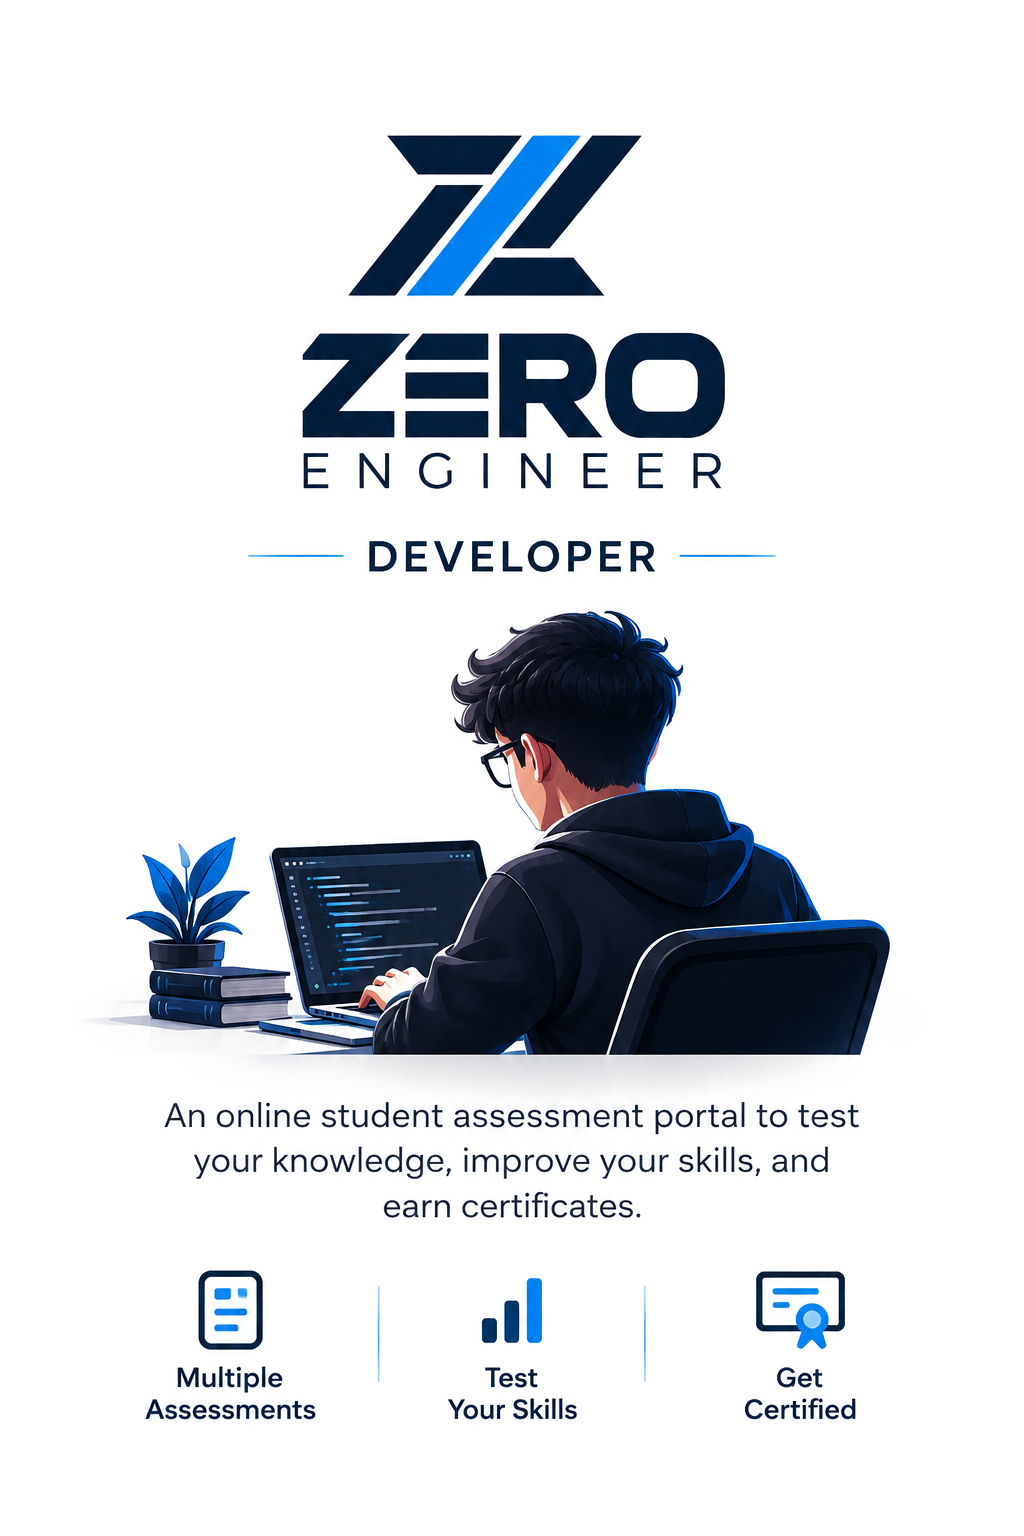
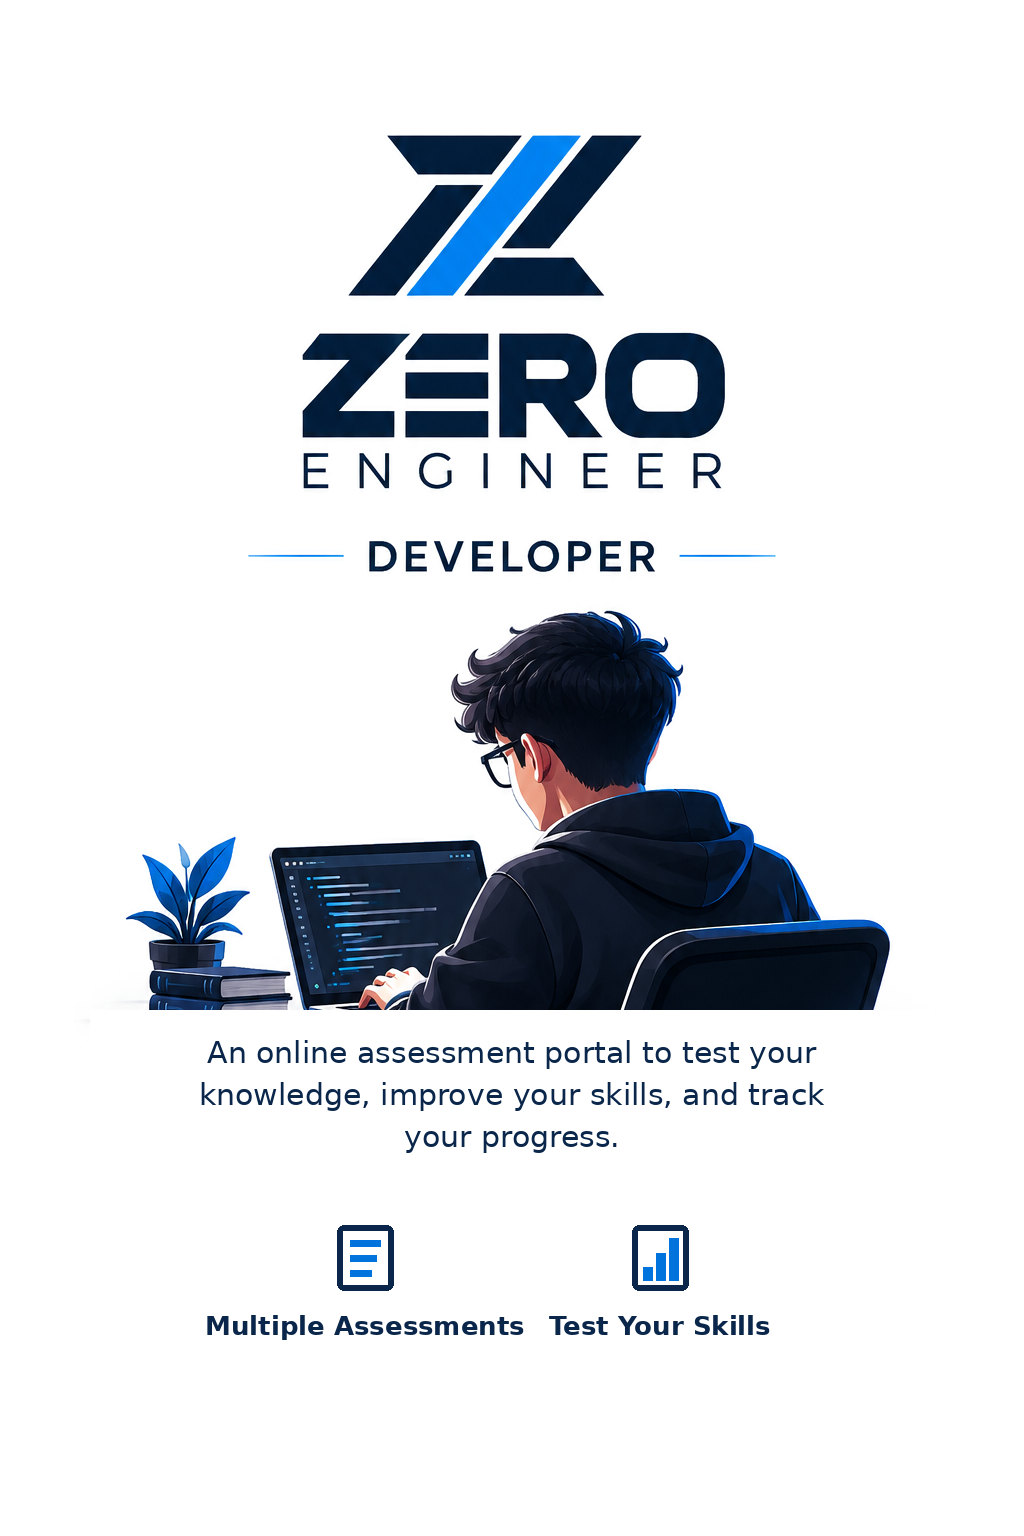
Remove certification messaging from home promo

Changed region(s): [[0.125, 0.6562, 0.875, 0.9375]]

diff --git a/public/css/style.css b/public/css/style.css
@@ -4,7 +4,7 @@
 .institution-logo{display:block;width:auto;max-width:min(520px,calc(100% - 190px));height:82px;object-fit:contain;object-position:left center;flex:1 1 auto;min-width:0}.brand-logo{display:block;width:clamp(150px,22vw,230px);max-width:32vw;height:auto;max-height:72px;object-fit:contain;object-position:center center;flex:0 1 230px;min-width:0}
 .wrap{width:min(1240px,calc(100% - 36px));margin:28px auto 46px}.panel{background:var(--panel);border:1px solid #d9e3ed;border-radius:var(--radius);padding:clamp(20px,2.5vw,32px);box-shadow:0 16px 38px #0b2d4b12;min-width:0}
 .home-layout{display:grid;grid-template-columns:minmax(0,1.03fr) minmax(360px,.9fr);gap:22px;align-items:stretch;margin-bottom:0}.home-layout>#home{grid-column:2;grid-row:1;min-width:0;background:#fff;border-top:4px solid var(--blue);align-self:center}.home-layout>.promo-panel{grid-column:1;grid-row:1}
-.promo-panel{min-width:0;min-height:0;display:flex;flex-direction:column;align-items:center;justify-content:center;gap:10px;padding:24px;background:linear-gradient(145deg,#0a2d52,#075da0 75%,#0879bd);border:0;border-radius:var(--radius);box-shadow:0 18px 40px #0b2d4b24;overflow:hidden;position:relative;color:white}.promo-panel:before{content:"";position:absolute;inset:0;background:radial-gradient(circle at 15% 15%,#ffffff12,transparent 42%),linear-gradient(135deg,transparent 60%,#e6b72e12);pointer-events:none}.promo-image{position:relative;z-index:1;display:block;width:100%;max-width:none;max-height:none;height:auto;flex:0 0 auto;object-fit:contain;object-position:center;background:#fff;border-radius:8px}.promo-caption{position:relative;z-index:1;margin:0;text-align:center;font-weight:750;letter-spacing:.06em;color:#ffda65}.promo-panel:after{content:"STUDENT ASSESSMENT  •  SKILL DEVELOPMENT  •  CERTIFICATION";position:relative;z-index:1;color:#d9eaff;font-size:.72rem;font-weight:800;letter-spacing:.11em;text-align:center;margin-top:8px}
+.promo-panel{min-width:0;min-height:0;display:flex;flex-direction:column;align-items:center;justify-content:center;gap:10px;padding:24px;background:linear-gradient(145deg,#0a2d52,#075da0 75%,#0879bd);border:0;border-radius:var(--radius);box-shadow:0 18px 40px #0b2d4b24;overflow:hidden;position:relative;color:white}.promo-panel:before{content:"";position:absolute;inset:0;background:radial-gradient(circle at 15% 15%,#ffffff12,transparent 42%),linear-gradient(135deg,transparent 60%,#e6b72e12);pointer-events:none}.promo-image{position:relative;z-index:1;display:block;width:100%;max-width:none;max-height:none;height:auto;flex:0 0 auto;object-fit:contain;object-position:center;background:#fff;border-radius:8px}.promo-caption{position:relative;z-index:1;margin:0;text-align:center;font-weight:750;letter-spacing:.06em;color:#ffda65}
 body:has(#home.hidden) .promo-panel{display:none}h1,h2,h3,p{margin-top:0}h1{font-size:clamp(1.9rem,3.5vw,2.75rem);line-height:1.1;letter-spacing:-.035em;margin-bottom:12px;color:var(--navy)}h2{font-size:clamp(1.4rem,2.6vw,1.95rem);line-height:1.2;color:var(--navy)}h3{color:var(--navy)}.eyebrow{font-size:.72rem;letter-spacing:.15em;font-weight:850;color:#087bc4;text-transform:uppercase;margin-bottom:12px}.muted{color:var(--muted)}.small{font-size:.8rem}#home>.muted{max-width:60ch;font-size:.96rem}
 form{display:grid;gap:13px;max-width:100%;margin-top:20px}label{display:grid;gap:6px;font-weight:700;font-size:.9rem;color:#1c3550}input,select{width:100%;padding:12px 13px;border-radius:10px;border:1px solid #c9d7e5;background:#f8fafc;color:#172e47;font:inherit;min-width:0}input::placeholder{color:#8091a4}input:focus,select:focus{outline:3px solid #1689d52e;border-color:var(--blue)}button{font:inherit;font-weight:750;border:0;border-radius:10px;padding:12px 17px;cursor:pointer;transition:transform .15s,box-shadow .15s,background .15s}button:hover:not(:disabled){transform:translateY(-1px)}button:disabled{opacity:.45;cursor:not-allowed}.primary{background:linear-gradient(110deg,#0868b5,#1596df);color:#fff;box-shadow:0 5px 12px #087bc426}.primary:hover:not(:disabled){box-shadow:0 8px 18px #087bc43b}.secondary{background:#eaf1f8;color:#173a5d;border:1px solid #cbd9e7}.danger{background:#b72f42;color:#fff;width:100%;margin-top:12px}.text-button{background:none;color:#0878bf;padding:10px 0;margin-top:7px}.error{color:var(--red);min-height:0;margin:0}.hidden{display:none!important}
 .info-grid,.stats-grid,.result-grid{display:grid;grid-template-columns:repeat(3,minmax(0,1fr));gap:12px;margin:20px 0}.info-card,.stat,.result-card{background:#f4f8fc;border:1px solid #dce6f0;padding:15px;border-radius:12px;min-width:0}.info-card strong,.result-card strong{display:block;font-size:1.25rem;overflow-wrap:anywhere;color:var(--navy)}.rules{color:#52687f;padding-left:22px}.rules li{margin:8px 0}.check{display:flex;align-items:flex-start;gap:10px;margin:22px 0}.check input{width:auto;margin-top:5px}.actions{display:flex;gap:10px;justify-content:space-between;margin-top:24px}.exam-top,.admin-head{display:flex;align-items:center;justify-content:space-between;gap:20px}.timer{font-size:1.6rem;font-weight:850;font-variant-numeric:tabular-nums;background:#eef5fb;border:1px solid #cdddeb;color:var(--navy);padding:8px 14px;border-radius:10px}.timer.warning{color:var(--red)}.progress-row{display:flex;justify-content:space-between;color:#657a8f;font-size:.9rem;margin-top:12px}.progress{height:7px;background:#e0e9f2;border-radius:99px;overflow:hidden;margin:8px 0 22px}.progress span{display:block;height:100%;background:linear-gradient(90deg,var(--blue),var(--gold));width:0}.exam-layout{display:grid;grid-template-columns:minmax(0,1fr) 230px;gap:28px}.question-area{padding:20px 0}.question-area h3{font-size:1.25rem;line-height:1.5}.options{display:grid;gap:11px;margin:22px 0}.option{display:flex;gap:12px;align-items:flex-start;padding:14px;border:1px solid #d7e2ec;border-radius:12px;cursor:pointer;background:#f7fafd;color:#193650}.option.selected{border-color:var(--blue);background:#e8f4ff;box-shadow:inset 3px 0 var(--blue)}.option input{width:auto;margin-top:5px}.question-nav{display:grid;grid-template-columns:repeat(5,1fr);gap:7px}.question-nav button{padding:8px 0;background:#e5edf5;color:#1c3c5d}.question-nav button.answered{background:#d7f3e8;color:#116547}.question-nav button.current{outline:2px solid var(--blue);outline-offset:1px}.exam-layout aside{border-left:1px solid #dce5ef;padding-left:20px}.result-card span{display:block;color:#718297;font-size:.8rem}.pass{color:var(--green)}.fail{color:var(--red)}.admin-tabs{display:flex;gap:8px;flex-wrap:wrap;margin:24px 0}.admin-table{width:100%;border-collapse:collapse;font-size:.88rem;background:white}.admin-table th,.admin-table td{text-align:left;padding:11px;border-bottom:1px solid #e0e8f0;overflow-wrap:anywhere}.admin-table th{background:#edf4fa;color:#163b5d}.table-wrap{overflow-x:auto}.admin-form{display:grid;grid-template-columns:repeat(2,minmax(0,1fr));gap:12px;margin:20px 0}.admin-form .wide{grid-column:1/-1}.admin-form button{align-self:end}.stat strong{font-size:1.5rem;display:block;color:var(--navy)}.stat span{color:#6d8093;font-size:.82rem}footer{text-align:center;color:#71859a;font-size:.8rem;padding:20px;background:#e5edf5;border-top:1px solid #d6e0eb}

diff --git a/server/public/css/style.css b/server/public/css/style.css
@@ -4,7 +4,7 @@
 .institution-logo{display:block;width:auto;max-width:min(520px,calc(100% - 190px));height:82px;object-fit:contain;object-position:left center;flex:1 1 auto;min-width:0}.brand-logo{display:block;width:clamp(150px,22vw,230px);max-width:32vw;height:auto;max-height:72px;object-fit:contain;object-position:center center;flex:0 1 230px;min-width:0}
 .wrap{width:min(1240px,calc(100% - 36px));margin:28px auto 46px}.panel{background:var(--panel);border:1px solid #d9e3ed;border-radius:var(--radius);padding:clamp(20px,2.5vw,32px);box-shadow:0 16px 38px #0b2d4b12;min-width:0}
 .home-layout{display:grid;grid-template-columns:minmax(0,1.03fr) minmax(360px,.9fr);gap:22px;align-items:stretch;margin-bottom:0}.home-layout>#home{grid-column:2;grid-row:1;min-width:0;background:#fff;border-top:4px solid var(--blue);align-self:center}.home-layout>.promo-panel{grid-column:1;grid-row:1}
-.promo-panel{min-width:0;min-height:0;display:flex;flex-direction:column;align-items:center;justify-content:center;gap:10px;padding:24px;background:linear-gradient(145deg,#0a2d52,#075da0 75%,#0879bd);border:0;border-radius:var(--radius);box-shadow:0 18px 40px #0b2d4b24;overflow:hidden;position:relative;color:white}.promo-panel:before{content:"";position:absolute;inset:0;background:radial-gradient(circle at 15% 15%,#ffffff12,transparent 42%),linear-gradient(135deg,transparent 60%,#e6b72e12);pointer-events:none}.promo-image{position:relative;z-index:1;display:block;width:100%;max-width:none;max-height:none;height:auto;flex:0 0 auto;object-fit:contain;object-position:center;background:#fff;border-radius:8px}.promo-caption{position:relative;z-index:1;margin:0;text-align:center;font-weight:750;letter-spacing:.06em;color:#ffda65}.promo-panel:after{content:"STUDENT ASSESSMENT  •  SKILL DEVELOPMENT  •  CERTIFICATION";position:relative;z-index:1;color:#d9eaff;font-size:.72rem;font-weight:800;letter-spacing:.11em;text-align:center;margin-top:8px}
+.promo-panel{min-width:0;min-height:0;display:flex;flex-direction:column;align-items:center;justify-content:center;gap:10px;padding:24px;background:linear-gradient(145deg,#0a2d52,#075da0 75%,#0879bd);border:0;border-radius:var(--radius);box-shadow:0 18px 40px #0b2d4b24;overflow:hidden;position:relative;color:white}.promo-panel:before{content:"";position:absolute;inset:0;background:radial-gradient(circle at 15% 15%,#ffffff12,transparent 42%),linear-gradient(135deg,transparent 60%,#e6b72e12);pointer-events:none}.promo-image{position:relative;z-index:1;display:block;width:100%;max-width:none;max-height:none;height:auto;flex:0 0 auto;object-fit:contain;object-position:center;background:#fff;border-radius:8px}.promo-caption{position:relative;z-index:1;margin:0;text-align:center;font-weight:750;letter-spacing:.06em;color:#ffda65}
 body:has(#home.hidden) .promo-panel{display:none}h1,h2,h3,p{margin-top:0}h1{font-size:clamp(1.9rem,3.5vw,2.75rem);line-height:1.1;letter-spacing:-.035em;margin-bottom:12px;color:var(--navy)}h2{font-size:clamp(1.4rem,2.6vw,1.95rem);line-height:1.2;color:var(--navy)}h3{color:var(--navy)}.eyebrow{font-size:.72rem;letter-spacing:.15em;font-weight:850;color:#087bc4;text-transform:uppercase;margin-bottom:12px}.muted{color:var(--muted)}.small{font-size:.8rem}#home>.muted{max-width:60ch;font-size:.96rem}
 form{display:grid;gap:13px;max-width:100%;margin-top:20px}label{display:grid;gap:6px;font-weight:700;font-size:.9rem;color:#1c3550}input,select{width:100%;padding:12px 13px;border-radius:10px;border:1px solid #c9d7e5;background:#f8fafc;color:#172e47;font:inherit;min-width:0}input::placeholder{color:#8091a4}input:focus,select:focus{outline:3px solid #1689d52e;border-color:var(--blue)}button{font:inherit;font-weight:750;border:0;border-radius:10px;padding:12px 17px;cursor:pointer;transition:transform .15s,box-shadow .15s,background .15s}button:hover:not(:disabled){transform:translateY(-1px)}button:disabled{opacity:.45;cursor:not-allowed}.primary{background:linear-gradient(110deg,#0868b5,#1596df);color:#fff;box-shadow:0 5px 12px #087bc426}.primary:hover:not(:disabled){box-shadow:0 8px 18px #087bc43b}.secondary{background:#eaf1f8;color:#173a5d;border:1px solid #cbd9e7}.danger{background:#b72f42;color:#fff;width:100%;margin-top:12px}.text-button{background:none;color:#0878bf;padding:10px 0;margin-top:7px}.error{color:var(--red);min-height:0;margin:0}.hidden{display:none!important}
 .info-grid,.stats-grid,.result-grid{display:grid;grid-template-columns:repeat(3,minmax(0,1fr));gap:12px;margin:20px 0}.info-card,.stat,.result-card{background:#f4f8fc;border:1px solid #dce6f0;padding:15px;border-radius:12px;min-width:0}.info-card strong,.result-card strong{display:block;font-size:1.25rem;overflow-wrap:anywhere;color:var(--navy)}.rules{color:#52687f;padding-left:22px}.rules li{margin:8px 0}.check{display:flex;align-items:flex-start;gap:10px;margin:22px 0}.check input{width:auto;margin-top:5px}.actions{display:flex;gap:10px;justify-content:space-between;margin-top:24px}.exam-top,.admin-head{display:flex;align-items:center;justify-content:space-between;gap:20px}.timer{font-size:1.6rem;font-weight:850;font-variant-numeric:tabular-nums;background:#eef5fb;border:1px solid #cdddeb;color:var(--navy);padding:8px 14px;border-radius:10px}.timer.warning{color:var(--red)}.progress-row{display:flex;justify-content:space-between;color:#657a8f;font-size:.9rem;margin-top:12px}.progress{height:7px;background:#e0e9f2;border-radius:99px;overflow:hidden;margin:8px 0 22px}.progress span{display:block;height:100%;background:linear-gradient(90deg,var(--blue),var(--gold));width:0}.exam-layout{display:grid;grid-template-columns:minmax(0,1fr) 230px;gap:28px}.question-area{padding:20px 0}.question-area h3{font-size:1.25rem;line-height:1.5}.options{display:grid;gap:11px;margin:22px 0}.option{display:flex;gap:12px;align-items:flex-start;padding:14px;border:1px solid #d7e2ec;border-radius:12px;cursor:pointer;background:#f7fafd;color:#193650}.option.selected{border-color:var(--blue);background:#e8f4ff;box-shadow:inset 3px 0 var(--blue)}.option input{width:auto;margin-top:5px}.question-nav{display:grid;grid-template-columns:repeat(5,1fr);gap:7px}.question-nav button{padding:8px 0;background:#e5edf5;color:#1c3c5d}.question-nav button.answered{background:#d7f3e8;color:#116547}.question-nav button.current{outline:2px solid var(--blue);outline-offset:1px}.exam-layout aside{border-left:1px solid #dce5ef;padding-left:20px}.result-card span{display:block;color:#718297;font-size:.8rem}.pass{color:var(--green)}.fail{color:var(--red)}.admin-tabs{display:flex;gap:8px;flex-wrap:wrap;margin:24px 0}.admin-table{width:100%;border-collapse:collapse;font-size:.88rem;background:white}.admin-table th,.admin-table td{text-align:left;padding:11px;border-bottom:1px solid #e0e8f0;overflow-wrap:anywhere}.admin-table th{background:#edf4fa;color:#163b5d}.table-wrap{overflow-x:auto}.admin-form{display:grid;grid-template-columns:repeat(2,minmax(0,1fr));gap:12px;margin:20px 0}.admin-form .wide{grid-column:1/-1}.admin-form button{align-self:end}.stat strong{font-size:1.5rem;display:block;color:var(--navy)}.stat span{color:#6d8093;font-size:.82rem}footer{text-align:center;color:#71859a;font-size:.8rem;padding:20px;background:#e5edf5;border-top:1px solid #d6e0eb}

diff --git a/public/index.html b/public/index.html
@@ -1,4 +1,4 @@
-<!doctype html><html lang="en"><head><meta charset="utf-8"><meta name="viewport" content="width=device-width,initial-scale=1"><title>Academic Excellence Portal | ZERO ENGINEER</title><link rel="stylesheet" href="/css/style.css"></head><body><header class="site-header"><img src="/assets/rcpet-header-banner.png" alt="R. C. Patel Educational Trust’s Institute of Management Research and Development, Shirpur" class="institution-logo"><img src="/assets/zero-engineer-logo.png" alt="ZERO ENGINEER" class="brand-logo"></header><main class="wrap"><div class="home-layout"><section id="home" class="panel"><p class="eyebrow">ACADEMIC ASSESSMENT</p><h1>Academic Excellence Portal</h1><p class="muted">A college-focused assessment platform to evaluate student knowledge, build practical skills, and recognize academic achievement across multiple subjects.</p><form id="registration"><label>Full name<input id="fullName" required minlength="2" maxlength="100" autocomplete="name" placeholder="Enter your full name"></label><label>Class / Year<select id="candidateClass" required><option value="">Choose your year</option><option value="FY">FY — First Year</option><option value="SY">SY — Second Year</option><option value="TY">TY — Third Year</option></select></label><label>Division<select id="candidateDivision" required><option value="">Choose your division</option><option value="A">Division A</option><option value="B">Division B</option><option value="C">Division C</option><option value="D">Division D</option></select></label><label>Assessment<select id="assessment" required></select></label><p id="registerError" class="error" role="alert"></p><button class="primary" type="submit">Continue to instructions</button></form><button id="adminOpen" class="text-button">Administrator login</button> <button id="teacherOpen" class="text-button">Teacher login</button></section><aside class="panel promo-panel"><img class="promo-image" src="/assets/zero-engineer-promo.png" alt="ZERO ENGINEER developer assessment portal: test your skills and view your assessment results"><p class="muted promo-caption">Practice. Learn. Achieve.</p></aside></div>
+<!doctype html><html lang="en"><head><meta charset="utf-8"><meta name="viewport" content="width=device-width,initial-scale=1"><title>Academic Excellence Portal | ZERO ENGINEER</title><link rel="stylesheet" href="/css/style.css"></head><body><header class="site-header"><img src="/assets/rcpet-header-banner.png" alt="R. C. Patel Educational Trust’s Institute of Management Research and Development, Shirpur" class="institution-logo"><img src="/assets/zero-engineer-logo.png" alt="ZERO ENGINEER" class="brand-logo"></header><main class="wrap"><div class="home-layout"><section id="home" class="panel"><p class="eyebrow">ACADEMIC ASSESSMENT</p><h1>Academic Excellence Portal</h1><p class="muted">A college-focused assessment platform to evaluate student knowledge, build practical skills, and recognize academic achievement across multiple subjects.</p><form id="registration"><label>Full name<input id="fullName" required minlength="2" maxlength="100" autocomplete="name" placeholder="Enter your full name"></label><label>Class / Year<select id="candidateClass" required><option value="">Choose your year</option><option value="FY">FY — First Year</option><option value="SY">SY — Second Year</option><option value="TY">TY — Third Year</option></select></label><label>Division<select id="candidateDivision" required><option value="">Choose your division</option><option value="A">Division A</option><option value="B">Division B</option><option value="C">Division C</option><option value="D">Division D</option></select></label><label>Assessment<select id="assessment" required></select></label><p id="registerError" class="error" role="alert"></p><button class="primary" type="submit">Continue to instructions</button></form><button id="adminOpen" class="text-button">Administrator login</button> <button id="teacherOpen" class="text-button">Teacher login</button></section><aside class="panel promo-panel"><img class="promo-image" src="/assets/zero-engineer-promo.png" alt="ZERO ENGINEER developer assessment portal"><p class="muted promo-caption">Practice. Learn. Achieve.</p></aside></div>
 <section id="instructions" class="panel hidden"><p class="eyebrow">BEFORE YOU BEGIN</p><h2 id="instructionTitle">Examination instructions</h2><div id="instructionDetails" class="info-grid"></div><ul class="rules"><li>Choose one option for each question. Unanswered questions receive no marks.</li><li>The countdown uses the server deadline and does not reset on refresh.</li><li>The examination opens in fullscreen when supported. Switching tabs, exiting fullscreen, or a detected split-screen/major window resize may trigger automatic submission.</li><li>Browsers cannot reliably detect every split-screen configuration. Fullscreen and focus controls discourage switching but are not a guaranteed kiosk mode.</li><li>Once submitted, an examination cannot be restarted or edited.</li><li>Results do not reveal correct answers or explanations.</li></ul><label class="check"><input id="agree" type="checkbox"> I have read and agree to the examination rules.</label><p id="instructionError" class="error" role="alert"></p><div class="actions"><button id="backHome" class="secondary">Back</button><button id="startExam" class="primary" disabled>Agree and Start Examination</button></div></section>
 <section id="exam" class="panel hidden"><div class="exam-top"><div><p class="eyebrow">ACTIVE EXAMINATION</p><h2 id="examTitle"></h2></div><div class="timer" id="timer">30:00</div></div><div class="progress-row"><span id="progressText">Question 1</span><span id="answeredText">0 answered</span></div><div class="progress"><span id="progressBar"></span></div><div class="exam-layout"><div class="question-area"><h3 id="questionText"></h3><div id="options" class="options"></div><div class="actions"><button id="previous" class="secondary">Previous</button><button id="next" class="primary">Next</button></div></div><aside><h3>Questions</h3><div id="questionNav" class="question-nav"></div><p class="muted small">Blue: current · Green: answered</p><button id="submitExam" class="danger">Submit examination</button><p id="connectionStatus" class="muted small">Connected</p></aside></div><p id="examError" class="error" role="alert"></p></section>
 <section id="result" class="panel hidden"><p class="eyebrow">ASSESSMENT RESULT</p><h2 id="resultHeading">Result</h2><div id="resultSummary" class="result-grid"></div><button id="returnHome" class="secondary">Return to home</button></section>
